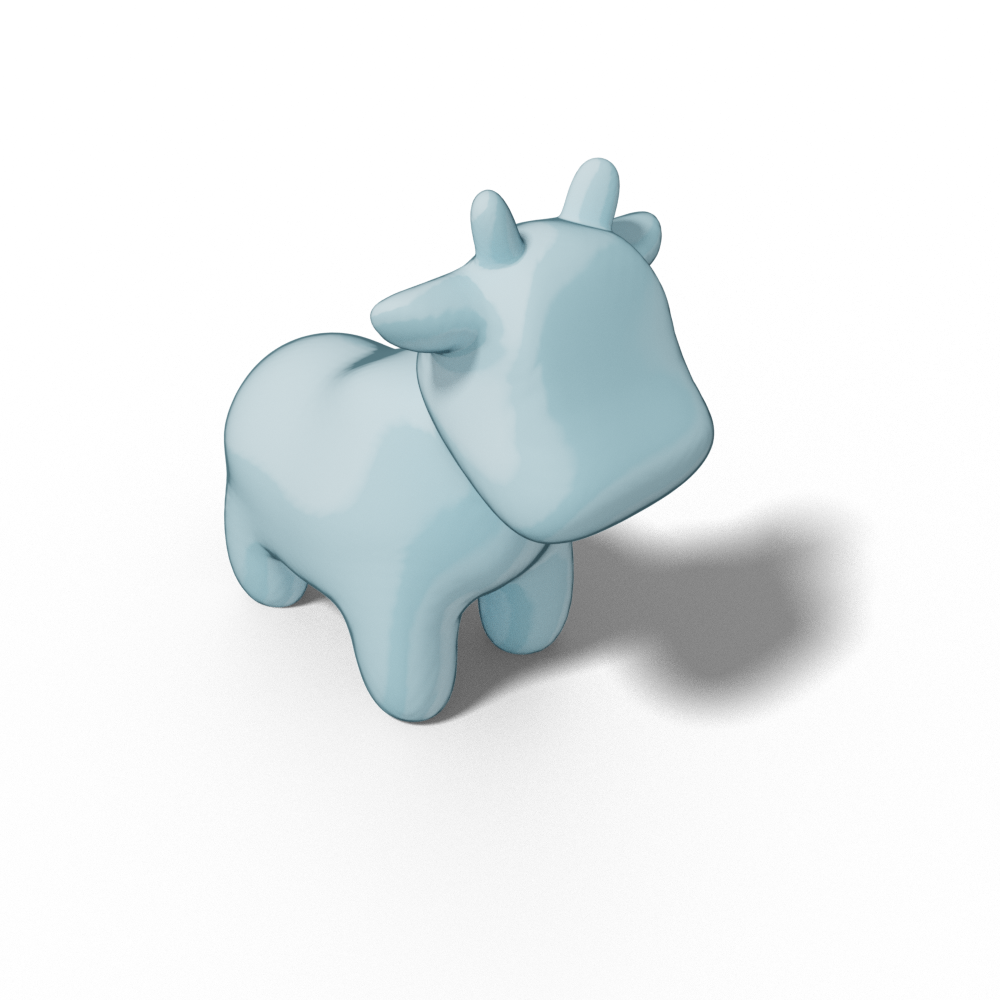
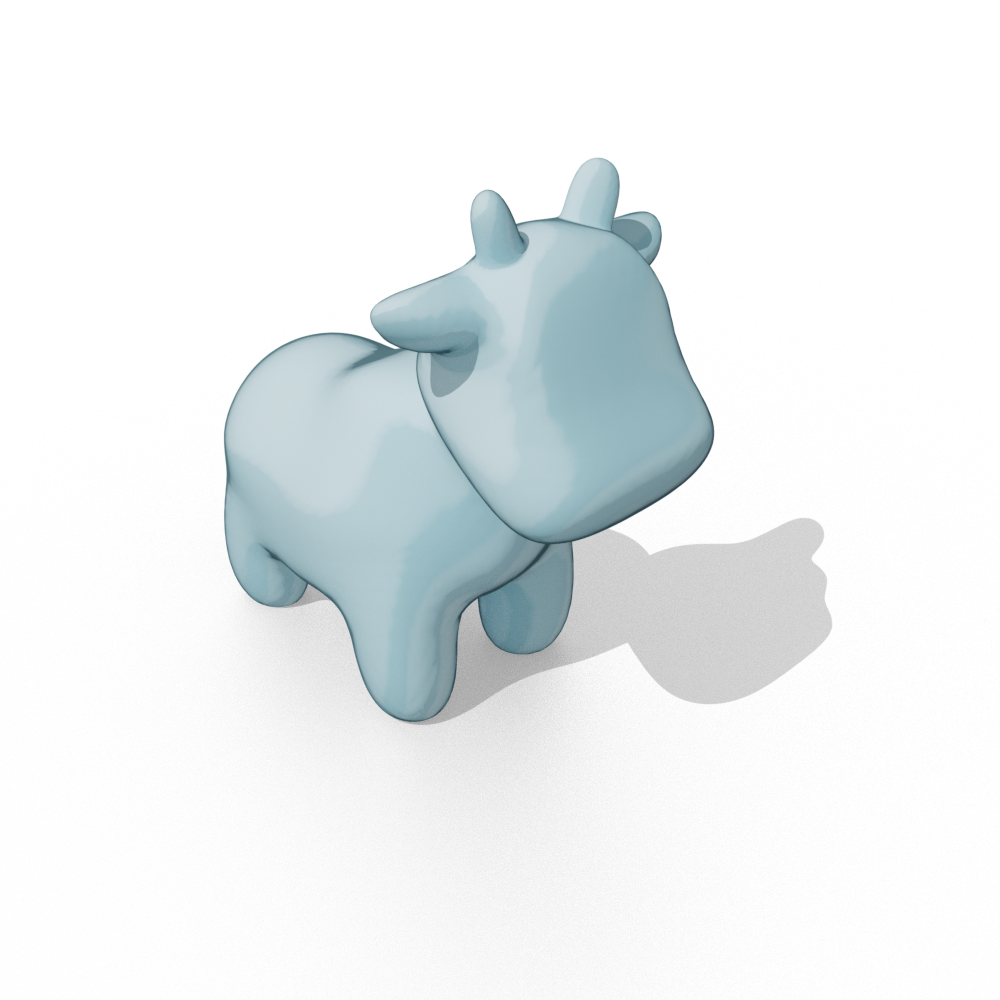
update to sharp shaDOW

diff --git a/cycles/utils/invisibleGround.py b/cycles/utils/invisibleGround.py
@@ -1,6 +1,6 @@
 import bpy
 
-def invisibleGround(location = (0,0,0), groundSize = 5, shadowDarkeness = 0.7):
+def invisibleGround(location = (0,0,0), groundSize = 5, shadowLight = 0.7):
 	# initialize a ground for shadow
 	bpy.context.scene.cycles.film_transparent = True
 	bpy.ops.mesh.primitive_plane_add(location = location, size = groundSize)
@@ -12,4 +12,4 @@ def invisibleGround(location = (0,0,0), groundSize = 5, shadowDarkeness = 0.7):
 	ground.data.materials.append(mat)
 	mat.use_nodes = True
 	tree = mat.node_tree
-	tree.nodes["Principled BSDF"].inputs['Transmission'].default_value = shadowDarkeness
+	tree.nodes["Principled BSDF"].inputs['Transmission'].default_value = shadowLight

diff --git a/cycles/demo_monotone.py b/cycles/demo_monotone.py
@@ -39,9 +39,9 @@ setMat_monotone(mesh, meshColor, saturation, brightness,shadowSize, colorPos, co
 
 # # set invisible plane (shadow catcher)
 groundCenter = (0,0,0)
-shadowDarkeness = 0.7
+shadowLight = 0.95
 groundSize = 20
-invisibleGround(groundCenter, groundSize, shadowDarkeness)
+invisibleGround(groundCenter, groundSize, shadowLight)
 
 # # set camera
 camLocation = (1.9,2,2.2)
@@ -52,7 +52,7 @@ cam = setCamera(camLocation, lookAtLocation, focalLength)
 # # set sunlight
 lightAngle = (-15,-34,-155) 
 strength = 2
-shadowSoftness = 0.1
+shadowSoftness = 0.0
 sun = setLight_sun(lightAngle, strength, shadowSoftness)
 
 # # set ambient light

diff --git a/cycles/utils/setMat_monotone.py b/cycles/utils/setMat_monotone.py
@@ -19,8 +19,9 @@ def setMat_monotone(mesh, \
 
     # set principled	
     principleNode = tree.nodes["Principled BSDF"]
-    principleNode.inputs['Roughness'].default_value = 0.7
+    principleNode.inputs['Roughness'].default_value = 1.0
     principleNode.inputs['Sheen Tint'].default_value = 0
+    principleNode.inputs['Specular'].default_value = 0.0
 
     # init level
     initRGB = tree.nodes.new('ShaderNodeHueSaturation')
